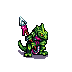
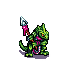
(#6) Base sprites tweaks.

Changed region(s): [[0.25, 0.2222, 0.6944, 0.8056], [0.6111, 0.8056, 0.6389, 0.8333], [0.4722, 0.8056, 0.5, 0.8333]]

diff --git a/_changelog.md b/_changelog.md
@@ -25,6 +25,8 @@ or stat adjustments. Releases with the same MAJOR version are always compatible.
 * Saurian Warden stat changes.
   * Ranged damage increased to 12-3.
   * Cost increased to 46.
+* Tweaked Saurian Spearwoman and Saurian Warden base sprite placements
+  to be more in line with Saurian Skirmisher.
 * Modding support. Additional advancements are now available as resources.
 
 ## 3.0.0
